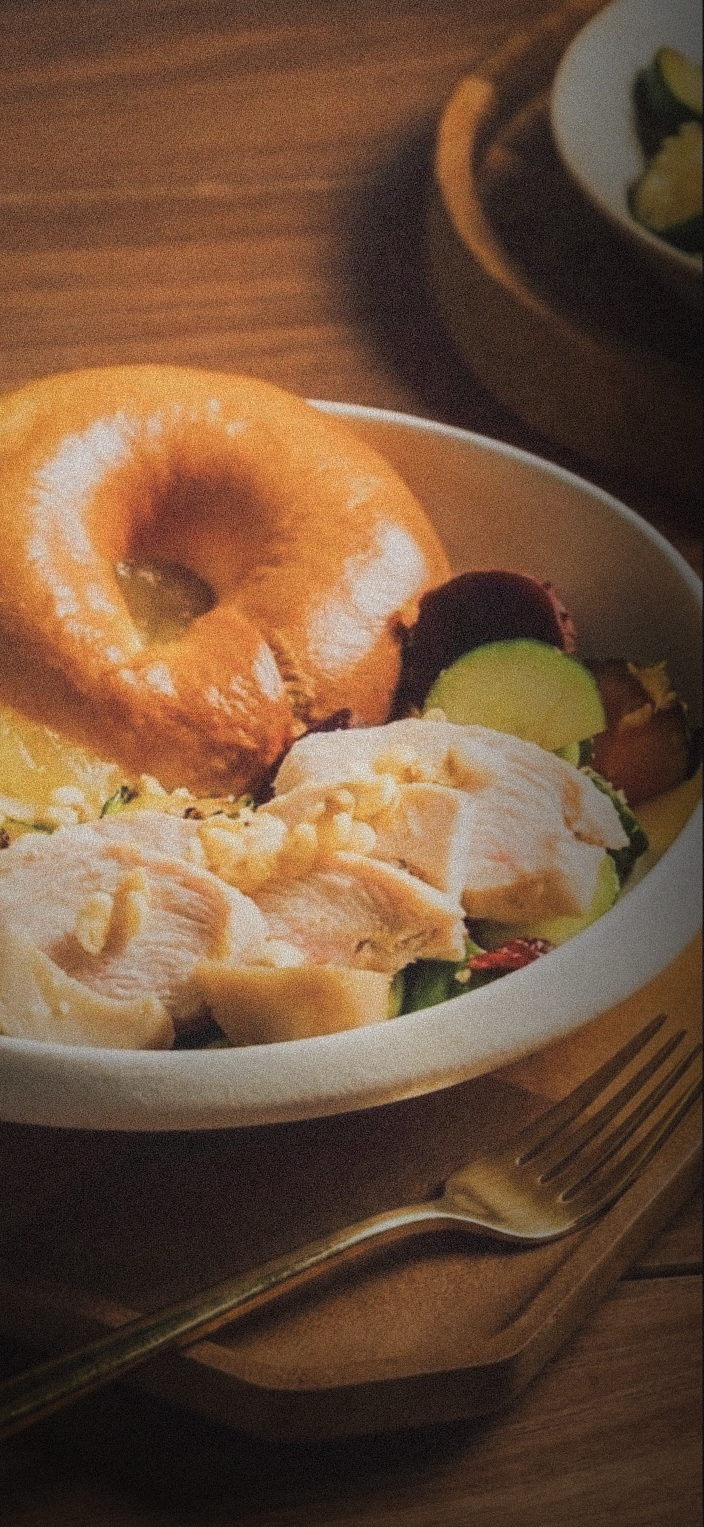
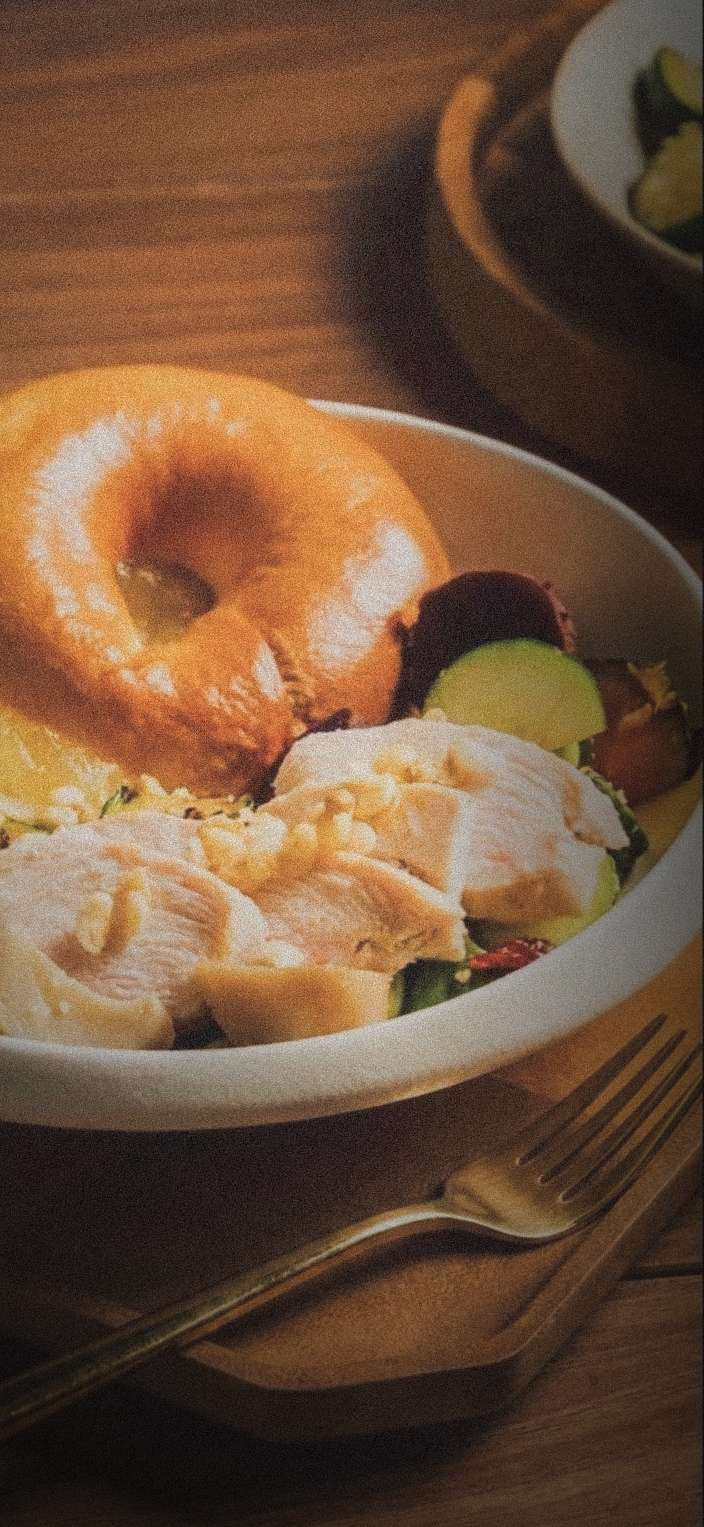
Compress home-bg.jpg to fix PSI LCP score
home-bg.jpg was a near-lossless Photoshop export (880 KB for a
704x1527 image, ~0.82 bytes/px) used as the LCP background on every
page, causing faq.html LCP of 5.9s and a PSI score of 78. Re-encoded
at quality 60 (progressive, optimized) to 121 KB with no dimension
change; visually unaffected since subpages already blur it under a
26px frost overlay and the homepage darkens it with a gradient scrim.

Bumped sw.js CACHE_NAME so installed PWAs pick up the new image.

diff --git a/sw.js b/sw.js
@@ -1,4 +1,4 @@
-const CACHE_NAME = 'pwa-cache-v26';
+const CACHE_NAME = 'pwa-cache-v27';
 const urlsToCache = ['/', '/index.html', '/about.html', '/faq.html', '/cake.html', '/bagel.html', '/salad.html', '/manifest.json'];
 
 // 若途中被導向過（例如 /about.html 被 Cloudflare 301 導向 /about），
